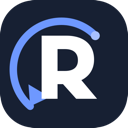
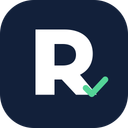
Refresh RoleReady proof-check brand mark

diff --git a/app.css b/app.css
@@ -9,7 +9,7 @@ main{width:min(1400px,100%);margin:0 auto;padding:32px clamp(24px,4vw,68px) 54px
 .modal-backdrop{position:fixed;inset:0;z-index:10;display:grid;place-items:center;padding:20px;background:#1118278d}.modal{width:min(640px,100%);max-height:90vh;overflow:auto;padding:24px;box-shadow:0 25px 70px #0004}.modal header{display:flex;justify-content:space-between;align-items:start;margin-bottom:15px}.close{border:0;background:none;color:var(--muted);font-size:23px}label{display:grid;gap:5px;margin:11px 0;font-size:12px;font-weight:750}input,select,textarea{border:1px solid #d6dbe3;border-radius:7px;background:#fff;color:var(--ink);padding:9px}textarea{min-height:110px;resize:vertical}.form-actions{display:flex;justify-content:flex-end;gap:9px;margin-top:16px}.resource{display:block;padding:10px 0;border-top:1px solid var(--line);color:var(--ink);text-decoration:none}.resource:first-of-type{border-top:0}.resource span{display:block;margin-top:2px;color:var(--muted);font-size:12px}.recording{background:#fff0f1;color:#a12937}#toast{position:fixed;right:24px;bottom:24px;z-index:20;transform:translateY(100px);border-radius:8px;background:var(--ink);color:#fff;padding:11px 14px;font-size:12px;transition:.2s}.hidden{display:none!important}#toast.show{transform:translateY(0)}
 
 /* Marketing launch — a cinematic preview of the real extension, not a copied competitor screen. */
-body.landing-mode{display:block;min-height:100vh;background:#f5f7fc}.landing-page{min-height:100vh;overflow:hidden;background:radial-gradient(75% 52% at 50% -7%,#d9e9ff 0%,#eff5ff 45%,#f7f8fb 78%);color:#10192b}.landing-nav{position:relative;z-index:2;display:flex;align-items:center;justify-content:space-between;width:min(1210px,calc(100% - 48px));margin:0 auto;padding:22px 0}.landing-brand{display:flex;align-items:center;gap:9px;color:#10192b;font-size:17px;font-weight:820;letter-spacing:-.6px;text-decoration:none}.landing-brand img{width:29px;height:29px}.landing-nav-actions,.landing-actions{display:flex;align-items:center;gap:12px}.landing-link,.landing-text-action{border:0;background:transparent;color:#3a4a66;font-size:13px;font-weight:740}.landing-cta{display:inline-flex;align-items:center;justify-content:center;gap:12px;border:1px solid #17233b;border-radius:999px;background:#17233b;color:#fff;padding:13px 18px;font-size:13px;font-weight:780;box-shadow:0 10px 24px #1b37642b;transition:transform .18s ease,background .18s ease}.landing-cta:hover{background:#27395c;transform:translateY(-1px)}.landing-cta.small{padding:9px 13px;font-size:12px}.landing-main{width:100%;margin:0;padding:0}.landing-hero{position:relative;z-index:1;display:grid;justify-items:center;padding:68px 24px 58px;text-align:center}.landing-kicker{display:flex;align-items:center;gap:7px;margin:0 0 19px;color:#416184;font-size:10px;font-weight:850;letter-spacing:1.5px}.landing-kicker i,.theater-caption i{width:7px;height:7px;border-radius:50%;background:#2d78df;box-shadow:0 0 0 4px #cce2ff}.landing-hero h1{max-width:930px;margin:0;color:#101a30;font-family:Georgia,"Times New Roman",serif;font-size:clamp(46px,6.3vw,88px);font-weight:400;letter-spacing:-4.6px;line-height:.99}.landing-hero h1 em{color:#326fd0;font-style:italic}.landing-subtitle{max-width:610px;margin:24px 0 0;color:#53627b;font-size:16px;line-height:1.65}.landing-actions{justify-content:center;margin-top:28px}.landing-text-action{padding:12px 6px}.landing-trust{display:flex;align-items:center;gap:7px;margin:18px 0 0;color:#69768b;font-size:11px}.landing-trust span{color:#3679d7}.product-theater{position:relative;width:min(1210px,calc(100% - 48px));margin:0 auto;padding:0 0 24px;perspective:1600px}.theater-glow{position:absolute;z-index:0;right:12%;bottom:2%;left:12%;height:52%;border-radius:50%;background:radial-gradient(ellipse,rgba(75,140,235,.38),rgba(129,181,255,.06) 48%,transparent 71%);filter:blur(26px)}.browser-demo{position:relative;z-index:1;overflow:hidden;border:1px solid #b7c5d9;border-radius:19px 19px 10px 10px;background:#fff;box-shadow:0 35px 78px #263f6630;transform:rotateX(2.2deg)}.browser-bar{display:grid;grid-template-columns:100px 1fr 100px;align-items:center;min-height:48px;padding:0 15px;border-bottom:1px solid #d8e0eb;background:#f7f9fc}.traffic{display:flex;gap:6px}.traffic i{width:9px;height:9px;border-radius:50%;background:#ff5f57}.traffic i:nth-child(2){background:#ffbd2e}.traffic i:nth-child(3){background:#28c840}.browser-address{justify-self:center;min-width:min(515px,75%);padding:6px 14px;border:1px solid #e1e6ee;border-radius:7px;background:#fff;color:#728096;font-size:10px;text-align:center}.browser-address span{color:#3b76d1}.browser-profile{justify-self:end;display:grid;width:24px;height:24px;place-items:center;border-radius:50%;background:#16223a;color:#fff;font-size:10px;font-weight:800}.browser-content{display:grid;grid-template-columns:minmax(0,1.2fr) minmax(340px,.8fr);min-height:565px;background:#f9fafc}.demo-posting{padding:49px clamp(28px,5.3vw,75px);background:#fff}.posting-company{display:flex;align-items:center;gap:10px}.northstar-mark{display:grid;width:34px;height:34px;place-items:center;border-radius:10px;background:#183568;color:#b9d6ff;font-size:16px}.posting-company b{display:block;color:#1c2b45;font-size:13px}.posting-company small{display:block;margin-top:1px;color:#8490a4;font-size:10px}.demo-label,.demo-section-label{margin:35px 0 7px;color:#77869a;font-size:9px;font-weight:850;letter-spacing:1.25px}.demo-posting h2{margin:0;color:#111f36;font-size:clamp(29px,3.2vw,45px);letter-spacing:-1.8px;line-height:1.02}.demo-chips{display:flex;flex-wrap:wrap;gap:6px;margin-top:19px}.demo-chips span{border:1px solid #dce4ef;border-radius:999px;color:#5d6b7e;padding:5px 8px;font-size:10px}.demo-posting hr{height:1px;margin:35px 0 0;border:0;background:#e9edf3}.demo-section-label{margin-top:27px}.demo-copy{max-width:585px;margin:0;color:#5d6c81;font-size:12px;line-height:1.7}.demo-requirements{display:grid;gap:4px;margin:0;padding:0;list-style:none}.demo-requirements li{display:flex;justify-content:space-between;padding:11px 0;border-top:1px solid #edf0f4;color:#203049;font-size:12px}.demo-requirements li:last-child{border-bottom:1px solid #edf0f4}.demo-requirements span{color:#8390a2;font-size:11px}.demo-extension{position:relative;margin:18px 18px 18px 0;border:1px solid #d5deeb;border-radius:13px;background:#fbfcff;box-shadow:0 11px 30px #1b386114}.extension-head{display:flex;align-items:center;justify-content:space-between;padding:13px 15px;border-bottom:1px solid #e6ebf2}.extension-head>div{display:flex;align-items:center;gap:8px;color:#1e2c42;font-size:12px;font-weight:800}.extension-head img{width:24px;height:24px}.extension-head small{display:block;color:#8090a4;font-size:7px;font-weight:850;letter-spacing:1px}.extension-head button{border:0;background:transparent;color:#768399;font-size:14px}.extension-score{display:flex;align-items:center;justify-content:space-between;padding:20px 17px}.extension-score p,.extension-insight p,.extension-section-head p{margin:0;color:#657894;font-size:8px;font-weight:850;letter-spacing:1.15px}.extension-score b{display:block;margin:4px 0 0;color:#18315b;font-size:31px;letter-spacing:-1.5px}.extension-score b span{font-size:14px}.extension-score small{color:#33815f;font-size:10px;font-weight:680}.extension-ring{display:grid;width:54px;height:54px;place-items:center;border-radius:50%;background:conic-gradient(#3d7ee0 84%,#dfe7f3 0);color:#244c88;font-size:12px;font-weight:850;position:relative}.extension-ring:after{position:absolute;inset:5px;border-radius:50%;background:#fbfcff;content:""}.extension-ring{isolation:isolate}.extension-ring::before{z-index:1;content:"84"}.extension-ring{font-size:0}.extension-insight{display:grid;gap:5px;margin:0 14px;padding:13px;border:1px solid #e4d9b9;border-radius:9px;background:#fffaf0}.extension-insight p{color:#aa7a26}.extension-insight b{color:#3d372a;font-size:11px}.extension-insight span{color:#766f62;font-size:10px;line-height:1.35}.extension-map{padding:17px 15px}.extension-section-head{display:flex;align-items:center;justify-content:space-between;margin-bottom:8px}.extension-section-head span{border-radius:99px;background:#edf7f2;color:#23785b;padding:3px 5px;font-size:8px;font-weight:800}.extension-row{display:flex;align-items:center;gap:8px;padding:9px 0;border-top:1px solid #e7ecf3}.extension-row i{display:grid;width:17px;height:17px;place-items:center;border-radius:50%;background:#e9f8f0;color:#27805f;font-style:normal;font-size:9px;font-weight:900}.extension-row.gap i{background:#fff1e4;color:#b96512}.extension-row b{display:block;color:#28384e;font-size:10px}.extension-row small{display:block;margin-top:1px;color:#76869b;font-size:9px}.extension-foot{display:grid;grid-template-columns:1fr 1fr;gap:7px;margin:0 14px 14px}.extension-foot button{border:1px solid #d5dfed;border-radius:7px;background:#fff;color:#40516a;padding:8px;font-size:10px;font-weight:750}.extension-foot button:last-child{border-color:#2866c4;background:#2866c4;color:#fff}.theater-caption{position:relative;z-index:1;display:flex;align-items:center;justify-content:space-between;padding:13px 16px;color:#748196;font-size:10px}.theater-caption span:first-child{display:flex;align-items:center;gap:7px;color:#406185;font-size:9px;font-weight:850;letter-spacing:1px}.theater-caption i{width:6px;height:6px;box-shadow:0 0 0 3px #d2e5ff}.theater-caption b{color:#2f7b5c}.landing-proof-points{display:grid;grid-template-columns:repeat(3,1fr);gap:32px;width:min(1010px,calc(100% - 48px));margin:32px auto 0;padding:43px 0 64px;border-top:1px solid #dce4ef}.landing-proof-points article{position:relative;padding-left:38px}.landing-proof-points span{position:absolute;top:1px;left:0;color:#86a2c9;font-size:11px;font-weight:850}.landing-proof-points h2{color:#24334a;font-size:15px}.landing-proof-points p{margin:0;color:#708096;font-size:12px;line-height:1.55}
+body.landing-mode{display:block;min-height:100vh;background:#f5f7fc}.landing-page{min-height:100vh;overflow:hidden;background:radial-gradient(75% 52% at 50% -7%,#d9e9ff 0%,#eff5ff 45%,#f7f8fb 78%);color:#10192b}.landing-nav{position:relative;z-index:2;display:flex;align-items:center;justify-content:space-between;width:min(1210px,calc(100% - 48px));margin:0 auto;padding:22px 0}.landing-brand{display:flex;align-items:center;gap:9px;color:#10192b;font-size:17px;font-weight:820;letter-spacing:-.6px;text-decoration:none}.landing-brand img{width:29px;height:29px}.landing-nav-actions,.landing-actions{display:flex;align-items:center;gap:12px}.landing-link,.landing-text-action{border:0;background:transparent;color:#3a4a66;font-size:13px;font-weight:740}.landing-cta{display:inline-flex;align-items:center;justify-content:center;gap:12px;border:1px solid #17233b;border-radius:999px;background:#17233b;color:#fff;padding:13px 18px;font-size:13px;font-weight:780;box-shadow:0 10px 24px #1b37642b;transition:transform .18s ease,background .18s ease}.landing-cta:hover{background:#27395c;transform:translateY(-1px)}.landing-cta.small{padding:9px 13px;font-size:12px}.landing-main{width:100%;margin:0;padding:0}.landing-hero{position:relative;z-index:1;display:grid;justify-items:center;padding:68px 24px 58px;text-align:center}.landing-kicker{display:flex;align-items:center;gap:7px;margin:0 0 19px;color:#416184;font-size:10px;font-weight:850;letter-spacing:1.5px}.landing-kicker i,.theater-caption i{display:none}.landing-hero h1{max-width:930px;margin:0;color:#101a30;font-family:Georgia,"Times New Roman",serif;font-size:clamp(46px,6.3vw,88px);font-weight:400;letter-spacing:-4.6px;line-height:.99}.landing-hero h1 em{color:#326fd0;font-style:italic}.landing-subtitle{max-width:610px;margin:24px 0 0;color:#53627b;font-size:16px;line-height:1.65}.landing-actions{justify-content:center;margin-top:28px}.landing-text-action{padding:12px 6px}.landing-trust{display:flex;align-items:center;gap:7px;margin:18px 0 0;color:#69768b;font-size:11px}.landing-trust span{color:#3679d7}.product-theater{position:relative;width:min(1210px,calc(100% - 48px));margin:0 auto;padding:0 0 24px;perspective:1600px}.theater-glow{position:absolute;z-index:0;right:12%;bottom:2%;left:12%;height:52%;border-radius:50%;background:radial-gradient(ellipse,rgba(75,140,235,.38),rgba(129,181,255,.06) 48%,transparent 71%);filter:blur(26px)}.browser-demo{position:relative;z-index:1;overflow:hidden;border:1px solid #b7c5d9;border-radius:19px 19px 10px 10px;background:#fff;box-shadow:0 35px 78px #263f6630;transform:rotateX(2.2deg)}.browser-bar{display:grid;grid-template-columns:100px 1fr 100px;align-items:center;min-height:48px;padding:0 15px;border-bottom:1px solid #d8e0eb;background:#f7f9fc}.traffic{display:flex;gap:6px}.traffic i{width:9px;height:9px;border-radius:50%;background:#ff5f57}.traffic i:nth-child(2){background:#ffbd2e}.traffic i:nth-child(3){background:#28c840}.browser-address{justify-self:center;min-width:min(515px,75%);padding:6px 14px;border:1px solid #e1e6ee;border-radius:7px;background:#fff;color:#728096;font-size:10px;text-align:center}.browser-address span{color:#3b76d1}.browser-profile{justify-self:end;display:grid;width:24px;height:24px;place-items:center;border-radius:50%;background:#16223a;color:#fff;font-size:10px;font-weight:800}.browser-content{display:grid;grid-template-columns:minmax(0,1.2fr) minmax(340px,.8fr);min-height:565px;background:#f9fafc}.demo-posting{padding:49px clamp(28px,5.3vw,75px);background:#fff}.posting-company{display:flex;align-items:center;gap:10px}.northstar-mark{display:grid;width:34px;height:34px;place-items:center;border-radius:10px;background:#183568;color:#b9d6ff;font-size:16px}.posting-company b{display:block;color:#1c2b45;font-size:13px}.posting-company small{display:block;margin-top:1px;color:#8490a4;font-size:10px}.demo-label,.demo-section-label{margin:35px 0 7px;color:#77869a;font-size:9px;font-weight:850;letter-spacing:1.25px}.demo-posting h2{margin:0;color:#111f36;font-size:clamp(29px,3.2vw,45px);letter-spacing:-1.8px;line-height:1.02}.demo-chips{display:flex;flex-wrap:wrap;gap:6px;margin-top:19px}.demo-posting hr{height:1px;margin:35px 0 0;border:0;background:#e9edf3}.demo-section-label{margin-top:27px}.demo-copy{max-width:585px;margin:0;color:#5d6c81;font-size:12px;line-height:1.7}.demo-requirements{display:grid;gap:4px;margin:0;padding:0;list-style:none}.demo-requirements li{display:flex;justify-content:space-between;padding:11px 0;border-top:1px solid #edf0f4;color:#203049;font-size:12px}.demo-requirements li:last-child{border-bottom:1px solid #edf0f4}.demo-requirements span{color:#8390a2;font-size:11px}.demo-extension{position:relative;margin:18px 18px 18px 0;border:1px solid #d5deeb;border-radius:13px;background:#fbfcff;box-shadow:0 11px 30px #1b386114}.extension-head{display:flex;align-items:center;justify-content:space-between;padding:13px 15px;border-bottom:1px solid #e6ebf2}.extension-head>div{display:flex;align-items:center;gap:8px;color:#1e2c42;font-size:12px;font-weight:800}.extension-head img{width:24px;height:24px}.extension-head small{display:block;color:#8090a4;font-size:7px;font-weight:850;letter-spacing:1px}.extension-head button{border:0;background:transparent;color:#768399;font-size:14px}.extension-score{display:flex;align-items:center;justify-content:space-between;padding:20px 17px}.extension-score p,.extension-insight p,.extension-section-head p{margin:0;color:#657894;font-size:8px;font-weight:850;letter-spacing:1.15px}.extension-score b{display:block;margin:4px 0 0;color:#18315b;font-size:31px;letter-spacing:-1.5px}.extension-score b span{font-size:14px}.extension-score small{color:#33815f;font-size:10px;font-weight:680}.extension-ring{display:grid;width:54px;height:54px;place-items:center;border-radius:50%;background:conic-gradient(#3d7ee0 84%,#dfe7f3 0);color:#244c88;font-size:12px;font-weight:850;position:relative}.extension-ring:after{position:absolute;inset:5px;border-radius:50%;background:#fbfcff;content:""}.extension-ring{isolation:isolate}.extension-ring::before{z-index:1;content:"84"}.extension-ring{font-size:0}.extension-insight{display:grid;gap:5px;margin:0 14px;padding:13px;border:1px solid #e4d9b9;border-radius:9px;background:#fffaf0}.extension-insight p{color:#aa7a26}.extension-insight b{color:#3d372a;font-size:11px}.extension-insight span{color:#766f62;font-size:10px;line-height:1.35}.extension-map{padding:17px 15px}.extension-section-head{display:flex;align-items:center;justify-content:space-between;margin-bottom:8px}.extension-section-head span{border-radius:99px;background:#edf7f2;color:#23785b;padding:3px 5px;font-size:8px;font-weight:800}.extension-row{display:flex;align-items:center;gap:8px;padding:9px 0;border-top:1px solid #e7ecf3}.extension-row i{display:grid;width:17px;height:17px;place-items:center;border-radius:50%;background:#e9f8f0;color:#27805f;font-style:normal;font-size:9px;font-weight:900}.extension-row.gap i{background:#fff1e4;color:#b96512}.extension-row b{display:block;color:#28384e;font-size:10px}.extension-row small{display:block;margin-top:1px;color:#76869b;font-size:9px}.extension-foot{display:grid;grid-template-columns:1fr 1fr;gap:7px;margin:0 14px 14px}.extension-foot button{border:1px solid #d5dfed;border-radius:7px;background:#fff;color:#40516a;padding:8px;font-size:10px;font-weight:750}.extension-foot button:last-child{border-color:#2866c4;background:#2866c4;color:#fff}.theater-caption{position:relative;z-index:1;display:flex;align-items:center;justify-content:space-between;padding:13px 16px;color:#748196;font-size:10px}.theater-caption span:first-child{display:flex;align-items:center;gap:7px;color:#406185;font-size:9px;font-weight:850;letter-spacing:1px}.theater-caption b{color:#2f7b5c}.landing-proof-points{display:grid;grid-template-columns:repeat(3,1fr);gap:32px;width:min(1010px,calc(100% - 48px));margin:32px auto 0;padding:43px 0 64px;border-top:1px solid #dce4ef}.landing-proof-points article{position:relative;padding-left:38px}.landing-proof-points span{position:absolute;top:1px;left:0;color:#86a2c9;font-size:11px;font-weight:850}.landing-proof-points h2{color:#24334a;font-size:15px}.landing-proof-points p{margin:0;color:#708096;font-size:12px;line-height:1.55}
 @media(max-width:1040px){.workspace-grid{grid-template-columns:1fr}.proof-surface{grid-row:auto}.workspace-side{grid-template-columns:repeat(3,1fr)}.job-rail{align-items:stretch;flex-direction:column;padding:12px 16px}.stage-fields{justify-content:flex-end}.interview-shell{grid-template-columns:210px 1fr}.coaching-panel{grid-column:1/-1;border-top:1px solid var(--line);border-left:0}.coaching-panel .rubric{grid-template-columns:repeat(3,1fr)}}
 @media(max-width:900px){body{grid-template-columns:1fr}.sidebar{display:none}main{padding:22px}.mobile-auth{display:inline-block}.home-grid,.grid-2,.vault-grid,.assessment-shell{grid-template-columns:1fr}.metric-grid{grid-template-columns:repeat(2,1fr)}.table-row{grid-template-columns:1fr}.proof-row{grid-template-columns:120px 1fr 1fr}.proof-next{grid-column:2/-1}.workspace-side{grid-template-columns:1fr}.interview-shell{grid-template-columns:1fr}.interview-context{border-right:0;border-bottom:1px solid var(--line)}.interview-rubric{grid-template-columns:repeat(3,1fr)}.interview-rubric div{display:grid;gap:3px}.coaching-panel{grid-column:auto}.readiness-card-top{padding:22px 20px 15px}.readiness-trail{padding-right:20px;padding-left:20px}.job-workspace-head{align-items:flex-start}.practice-launch{align-items:flex-start;flex-direction:column}.welcome-row{align-items:flex-start;flex-direction:column}.quiet-stats{gap:12px}}
 @media(max-width:580px){main{padding:18px}main>header{align-items:flex-start}.header-actions{gap:6px}.primary,.secondary{padding:9px 11px;font-size:12px}h1{font-size:24px}.welcome-row h2{font-size:23px}.readiness-card-top{display:block}.readiness-card-top .readiness-ring{margin-top:16px}.readiness-trail{grid-template-columns:1fr;gap:9px}.readiness-trail li{grid-template-columns:23px 1fr;align-items:center}.readiness-trail li:after{display:none}.next-move{align-items:flex-start;flex-direction:column}.job-workspace-head .large{width:72px;height:72px}.job-workspace-head .large span{font-size:16px}.job-rail{padding:11px}.job-rail .readiness-trail{display:none}.stage-fields{align-items:stretch;flex-direction:column}.stage-fields select,.stage-fields input{width:100%}.proof-row{grid-template-columns:1fr;gap:8px}.proof-next{grid-column:auto}.interview-rubric{grid-template-columns:1fr}.voice-stage{padding:30px 19px}.voice-stage-head{font-size:8px}.voice-stage .interview-question{font-size:20px}.voice-actions{width:100%}.voice-actions button{flex:1}.quiet-stats{white-space:normal}.practice-launch>div:last-child{display:grid;width:100%;gap:7px}.practice-launch .secondary{margin-right:0}.company-surface{display:none}}

diff --git a/background.js b/background.js
@@ -12,59 +12,13 @@ const DEMO_PROFILE = {
   ]
 };
 
-function roundRect(context, x, y, width, height, radius) {
-  context.beginPath();
-  context.moveTo(x + radius, y);
-  context.arcTo(x + width, y, x + width, y + height, radius);
-  context.arcTo(x + width, y + height, x, y + height, radius);
-  context.arcTo(x, y + height, x, y, radius);
-  context.arcTo(x, y, x + width, y, radius);
-  context.closePath();
-}
-
-function roleReadyIcon(size) {
-  if (typeof OffscreenCanvas === "undefined") return null;
-  const canvas = new OffscreenCanvas(size, size);
-  const context = canvas.getContext("2d");
-  if (!context) return null;
-  const unit = size / 128;
-  roundRect(context, 8 * unit, 8 * unit, 112 * unit, 112 * unit, 31 * unit);
-  context.fillStyle = "#172033";
-  context.fill();
-  context.beginPath();
-  context.arc(64 * unit, 64 * unit, 46 * unit, Math.PI * .77, Math.PI * 1.77);
-  context.strokeStyle = "#7EA5FF";
-  context.lineWidth = 8 * unit;
-  context.lineCap = "round";
-  context.stroke();
-  context.fillStyle = "#AFC6FF";
-  context.beginPath();
-  context.arc(95 * unit, 27 * unit, 6 * unit, 0, Math.PI * 2);
-  context.fill();
-  context.fillStyle = "#FFFFFF";
-  context.font = `900 ${57 * unit}px Arial, sans-serif`;
-  context.textAlign = "center";
-  context.textBaseline = "middle";
-  context.fillText("R", 64 * unit, 67 * unit);
-  return context.getImageData(0, 0, size, size);
-}
-
-async function applyRoleReadyIcon() {
-  const icons = Object.fromEntries([16, 32, 48, 128].map((size) => [size, roleReadyIcon(size)]).filter(([, icon]) => icon));
-  if (Object.keys(icons).length) await chrome.action.setIcon({ imageData: icons });
-}
-
 chrome.runtime.onInstalled.addListener(() => {
   void (async () => {
     const { candidateProfile } = await chrome.storage.local.get("candidateProfile");
     if (!candidateProfile) await chrome.storage.local.set({ candidateProfile: DEMO_PROFILE });
     await chrome.sidePanel.setPanelBehavior({ openPanelOnActionClick: true });
-    await applyRoleReadyIcon();
   })().catch((error) => console.warn("RoleReady setup used a compatibility fallback.", error));
 });
-
-chrome.runtime.onStartup.addListener(() => void applyRoleReadyIcon().catch(() => {}));
-applyRoleReadyIcon().catch(() => { /* The default browser letter is an acceptable fallback before Chrome initializes OffscreenCanvas. */ });
 
 chrome.runtime.onMessage.addListener((message, sender, sendResponse) => {
   if (message.type === "JOB_CONTEXT") {

diff --git a/api/og.js b/api/og.js
@@ -2,7 +2,7 @@ import React from "react";
 import { ImageResponse } from "@vercel/og";
 
 const h = React.createElement;
[2 lines of base64/hex data omitted]
 
 function proofRow(label, status, accent) {
   return h("div", { style: { display: "flex", alignItems: "center", justifyContent: "space-between", padding: "13px 0", borderTop: "1px solid #e5eaf2", fontSize: 20, color: "#24334a" } },
